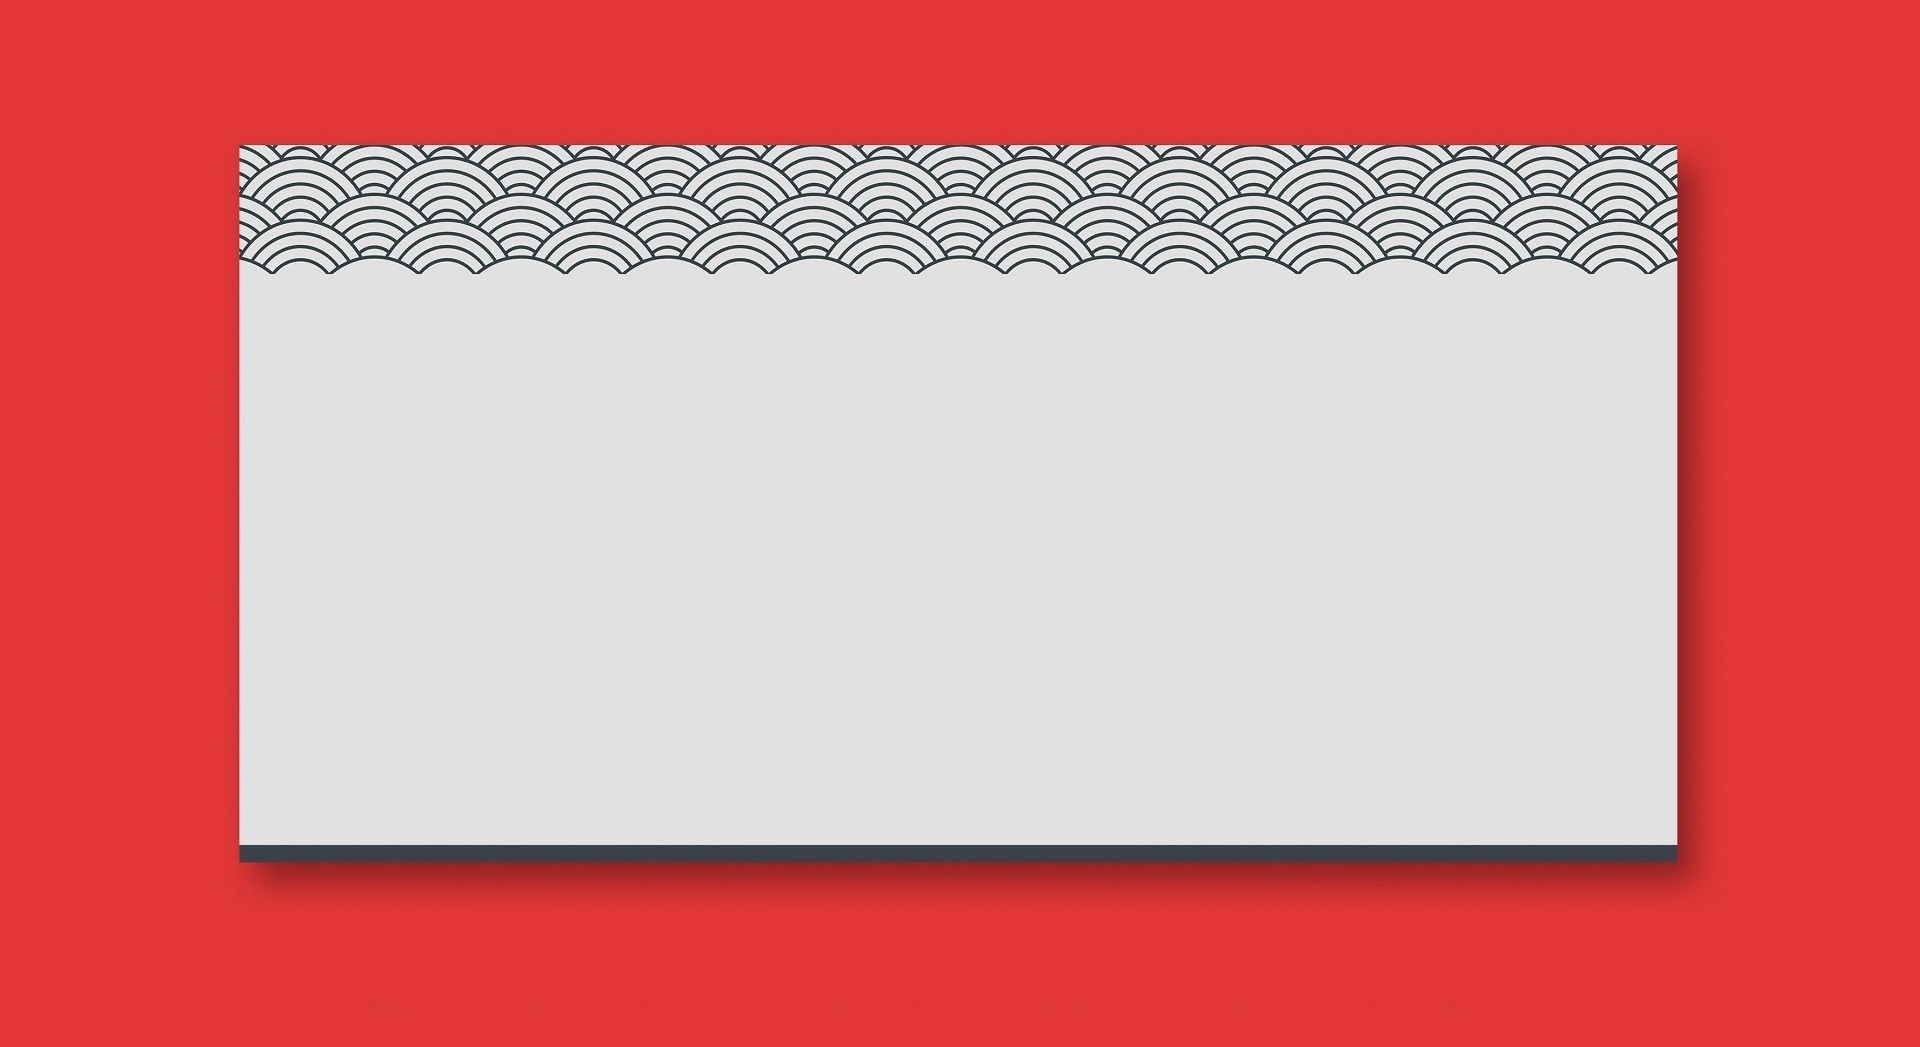
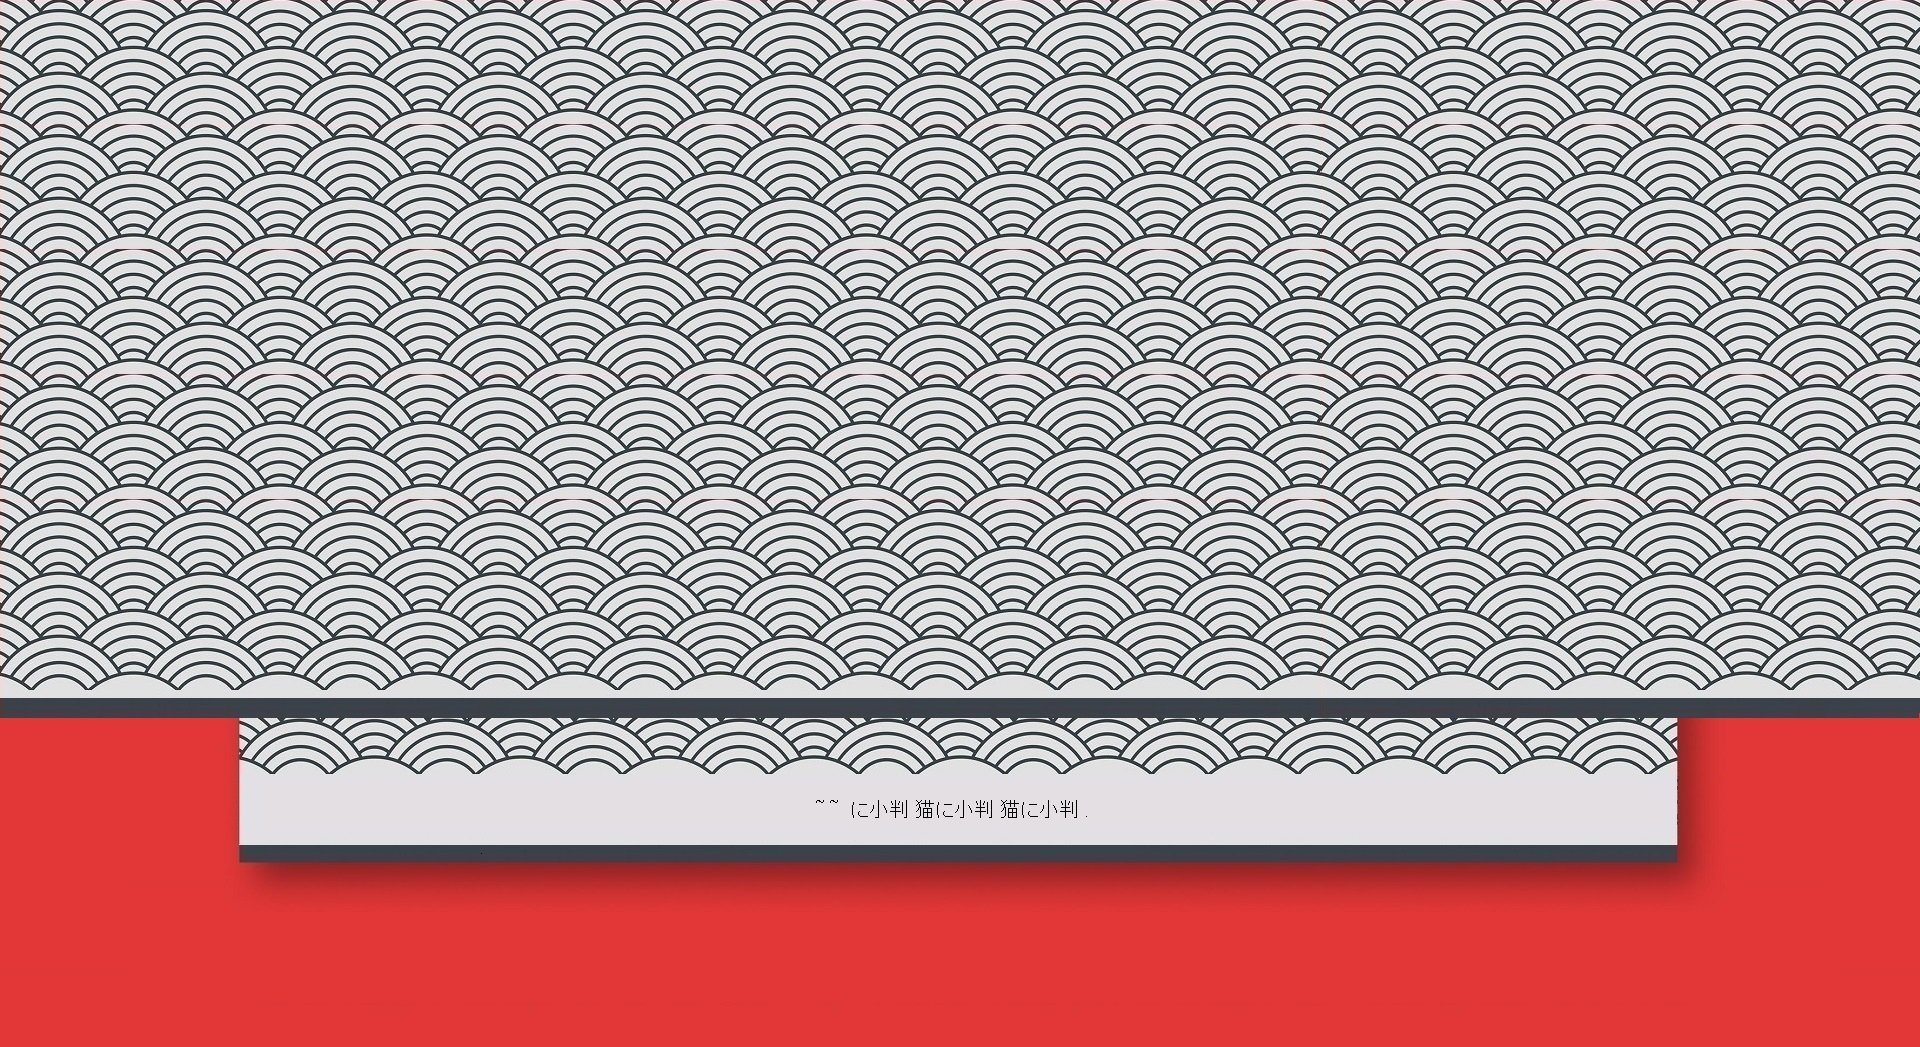
final commit 4

diff --git a/style.css b/style.css
@@ -42,7 +42,7 @@ html {
     background-color: #E1E1E1;
     width: 220px;
     text-align: center;
-    margin-top: 200px;
+    margin-top: 100px;
     border: solid;
     border-width: 2px 2px 16px 2px;
     border-color: #3A4147;
@@ -54,7 +54,7 @@ html {
     background-color: #E1E1E1;
     width: 220px;
     text-align: center;
-    margin-top: 200px;
+    margin-top: 100px;
     border: solid;
     border-width: 2px 2px 16px 2px;
     border-color: #3A4147;
@@ -66,7 +66,7 @@ html {
     background-color: #E1E1E1;
     width: 220px;
     text-align: center;
-    margin-top: 200px;
+    margin-top: 100px;
     border: solid;
     border-width: 2px 2px 16px 2px;
     border-color: #3A4147;
@@ -76,7 +76,9 @@ html {
 
   .p {
     margin: 15px;
+    font-family: 'Nunito Sans', sans-serif;
   }
+  
 
   ul#menu {
     font-family: 'Lexend', sans-serif;

diff --git a/portfolio_project.html b/portfolio_project.html
@@ -13,9 +13,9 @@
     <!-- Style & script -->
     <link rel="stylesheet" href="style.css">
     <script src="script.js" defer></script>
-
-    <!--     Fonts and icons     -->
+    <!-- Fonts and icons  -->
   <link href="https://fonts.googleapis.com/css?family=Montserrat:400,700,200" rel="stylesheet" />
+  
   <link rel="stylesheet" href="https://use.fontawesome.com/releases/v5.7.1/css/all.css" integrity="sha384-fnmOCqbTlWIlj8LyTjo7mOUStjsKC4pOpQbqyi7RrhN7udi9RwhKkMHpvLbHG9Sr" crossorigin="anonymous">
   <!-- CSS Files -->
   <link href="./assets/css/bootstrap.min.css" rel="stylesheet" />
